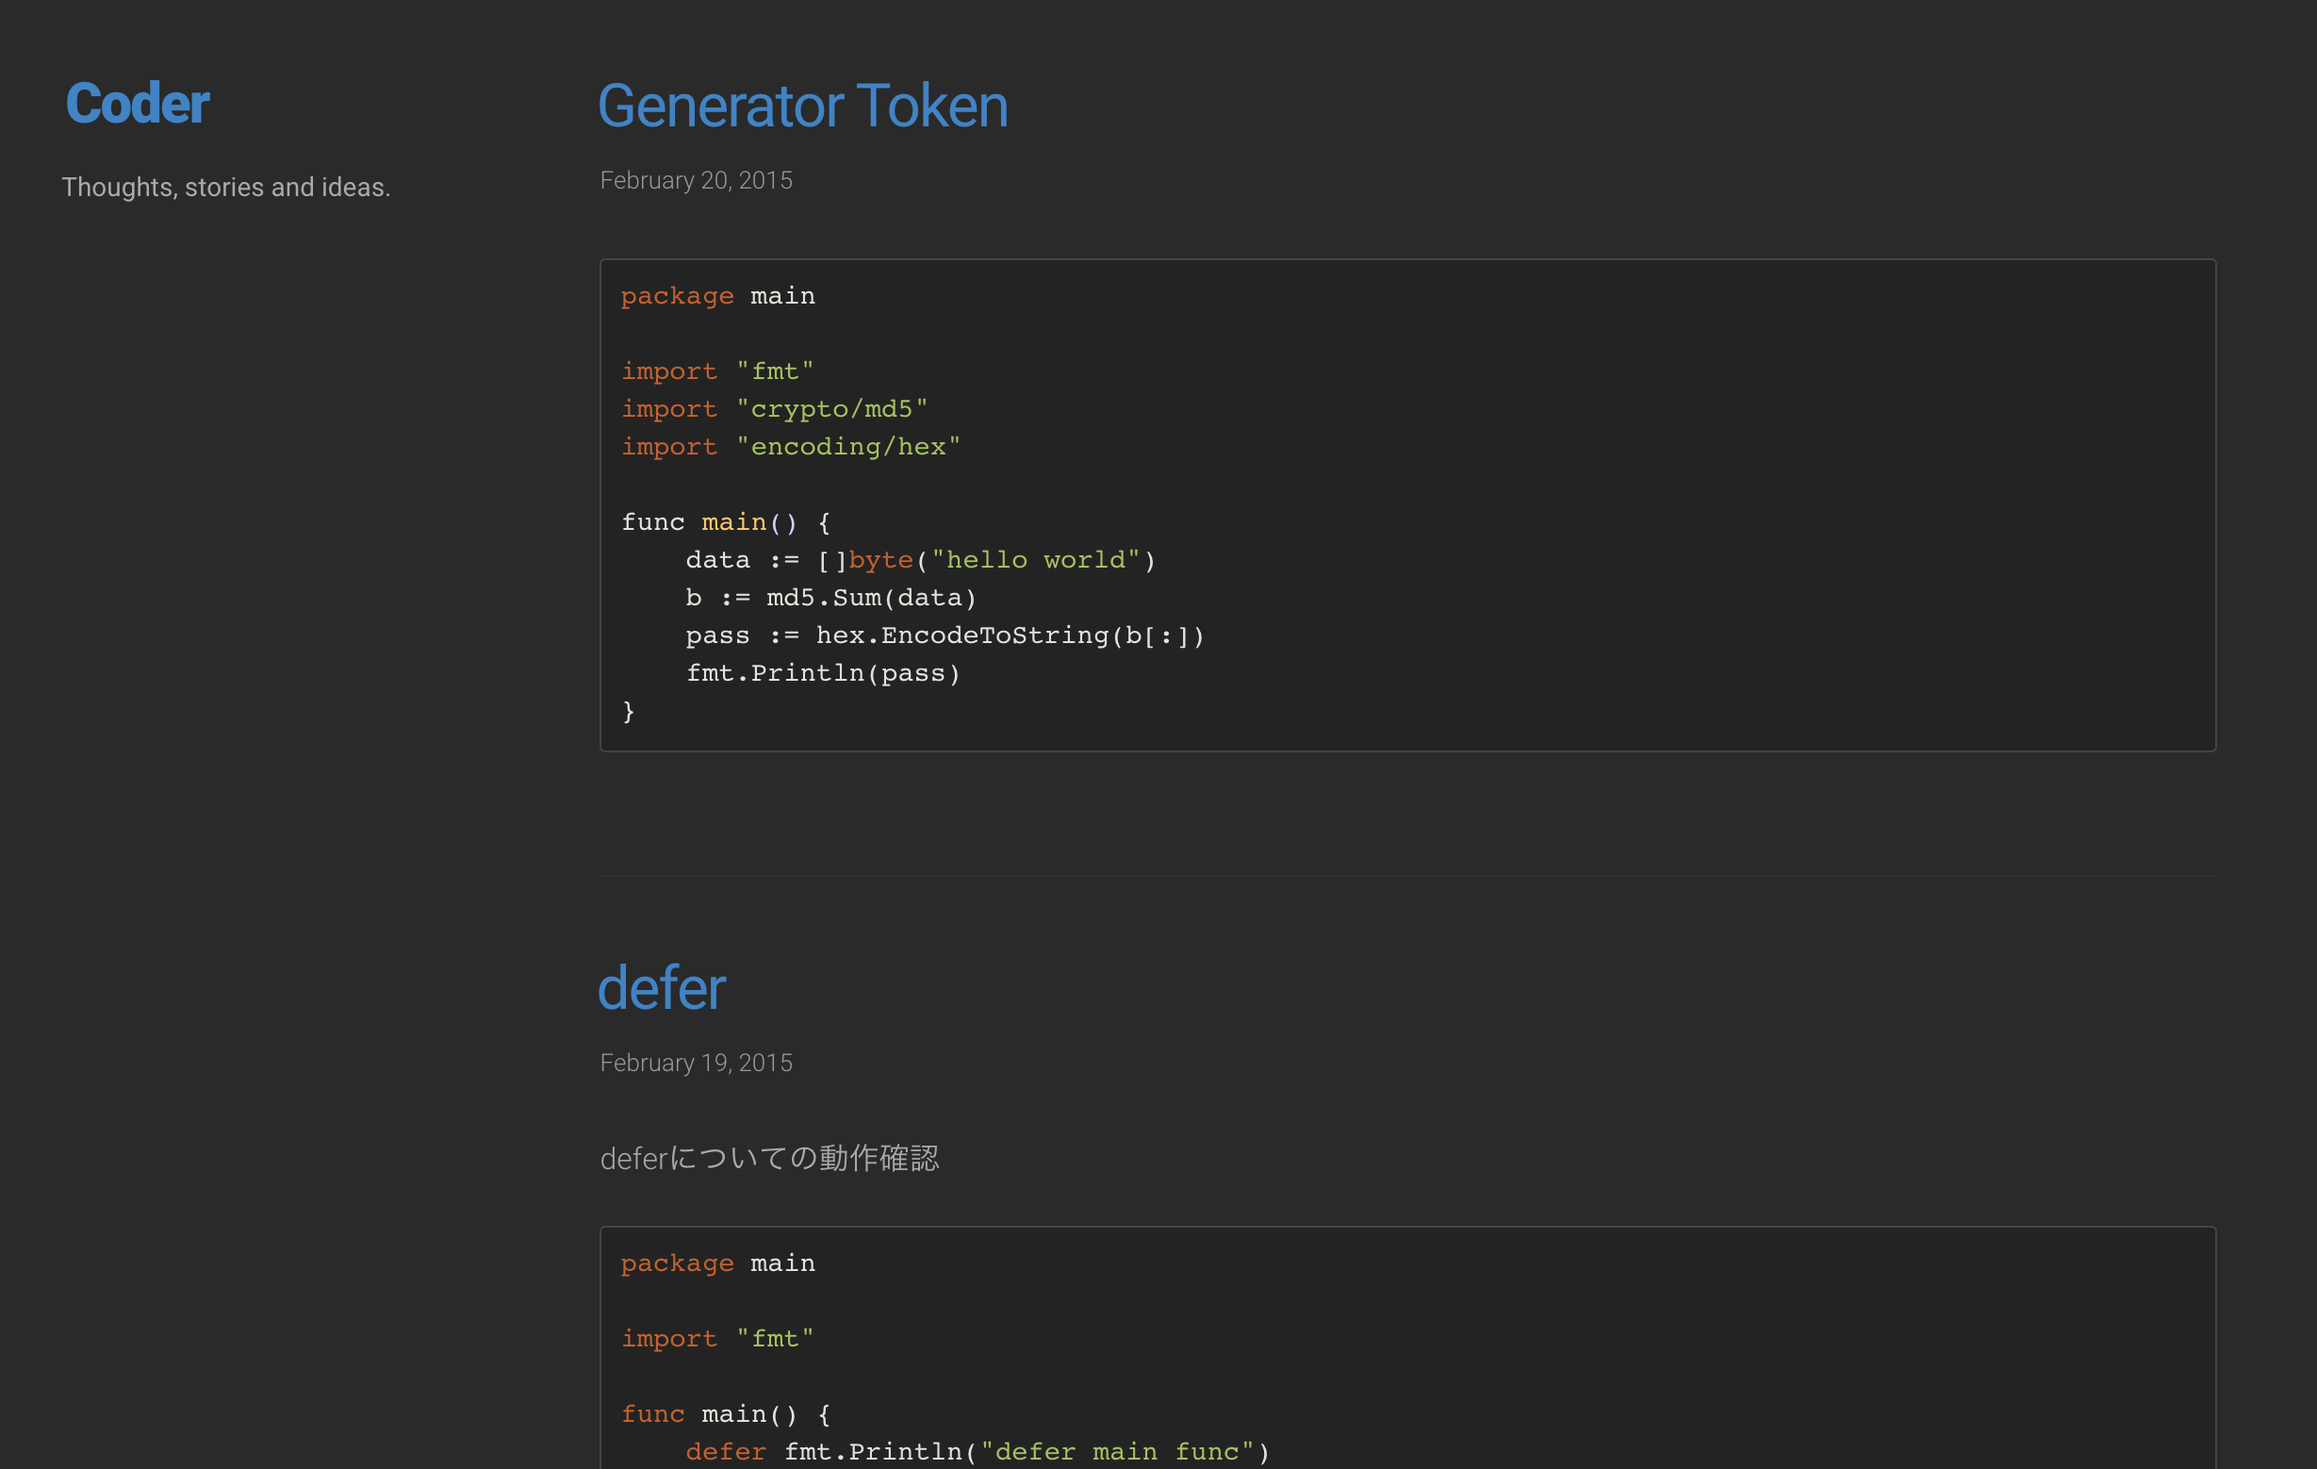
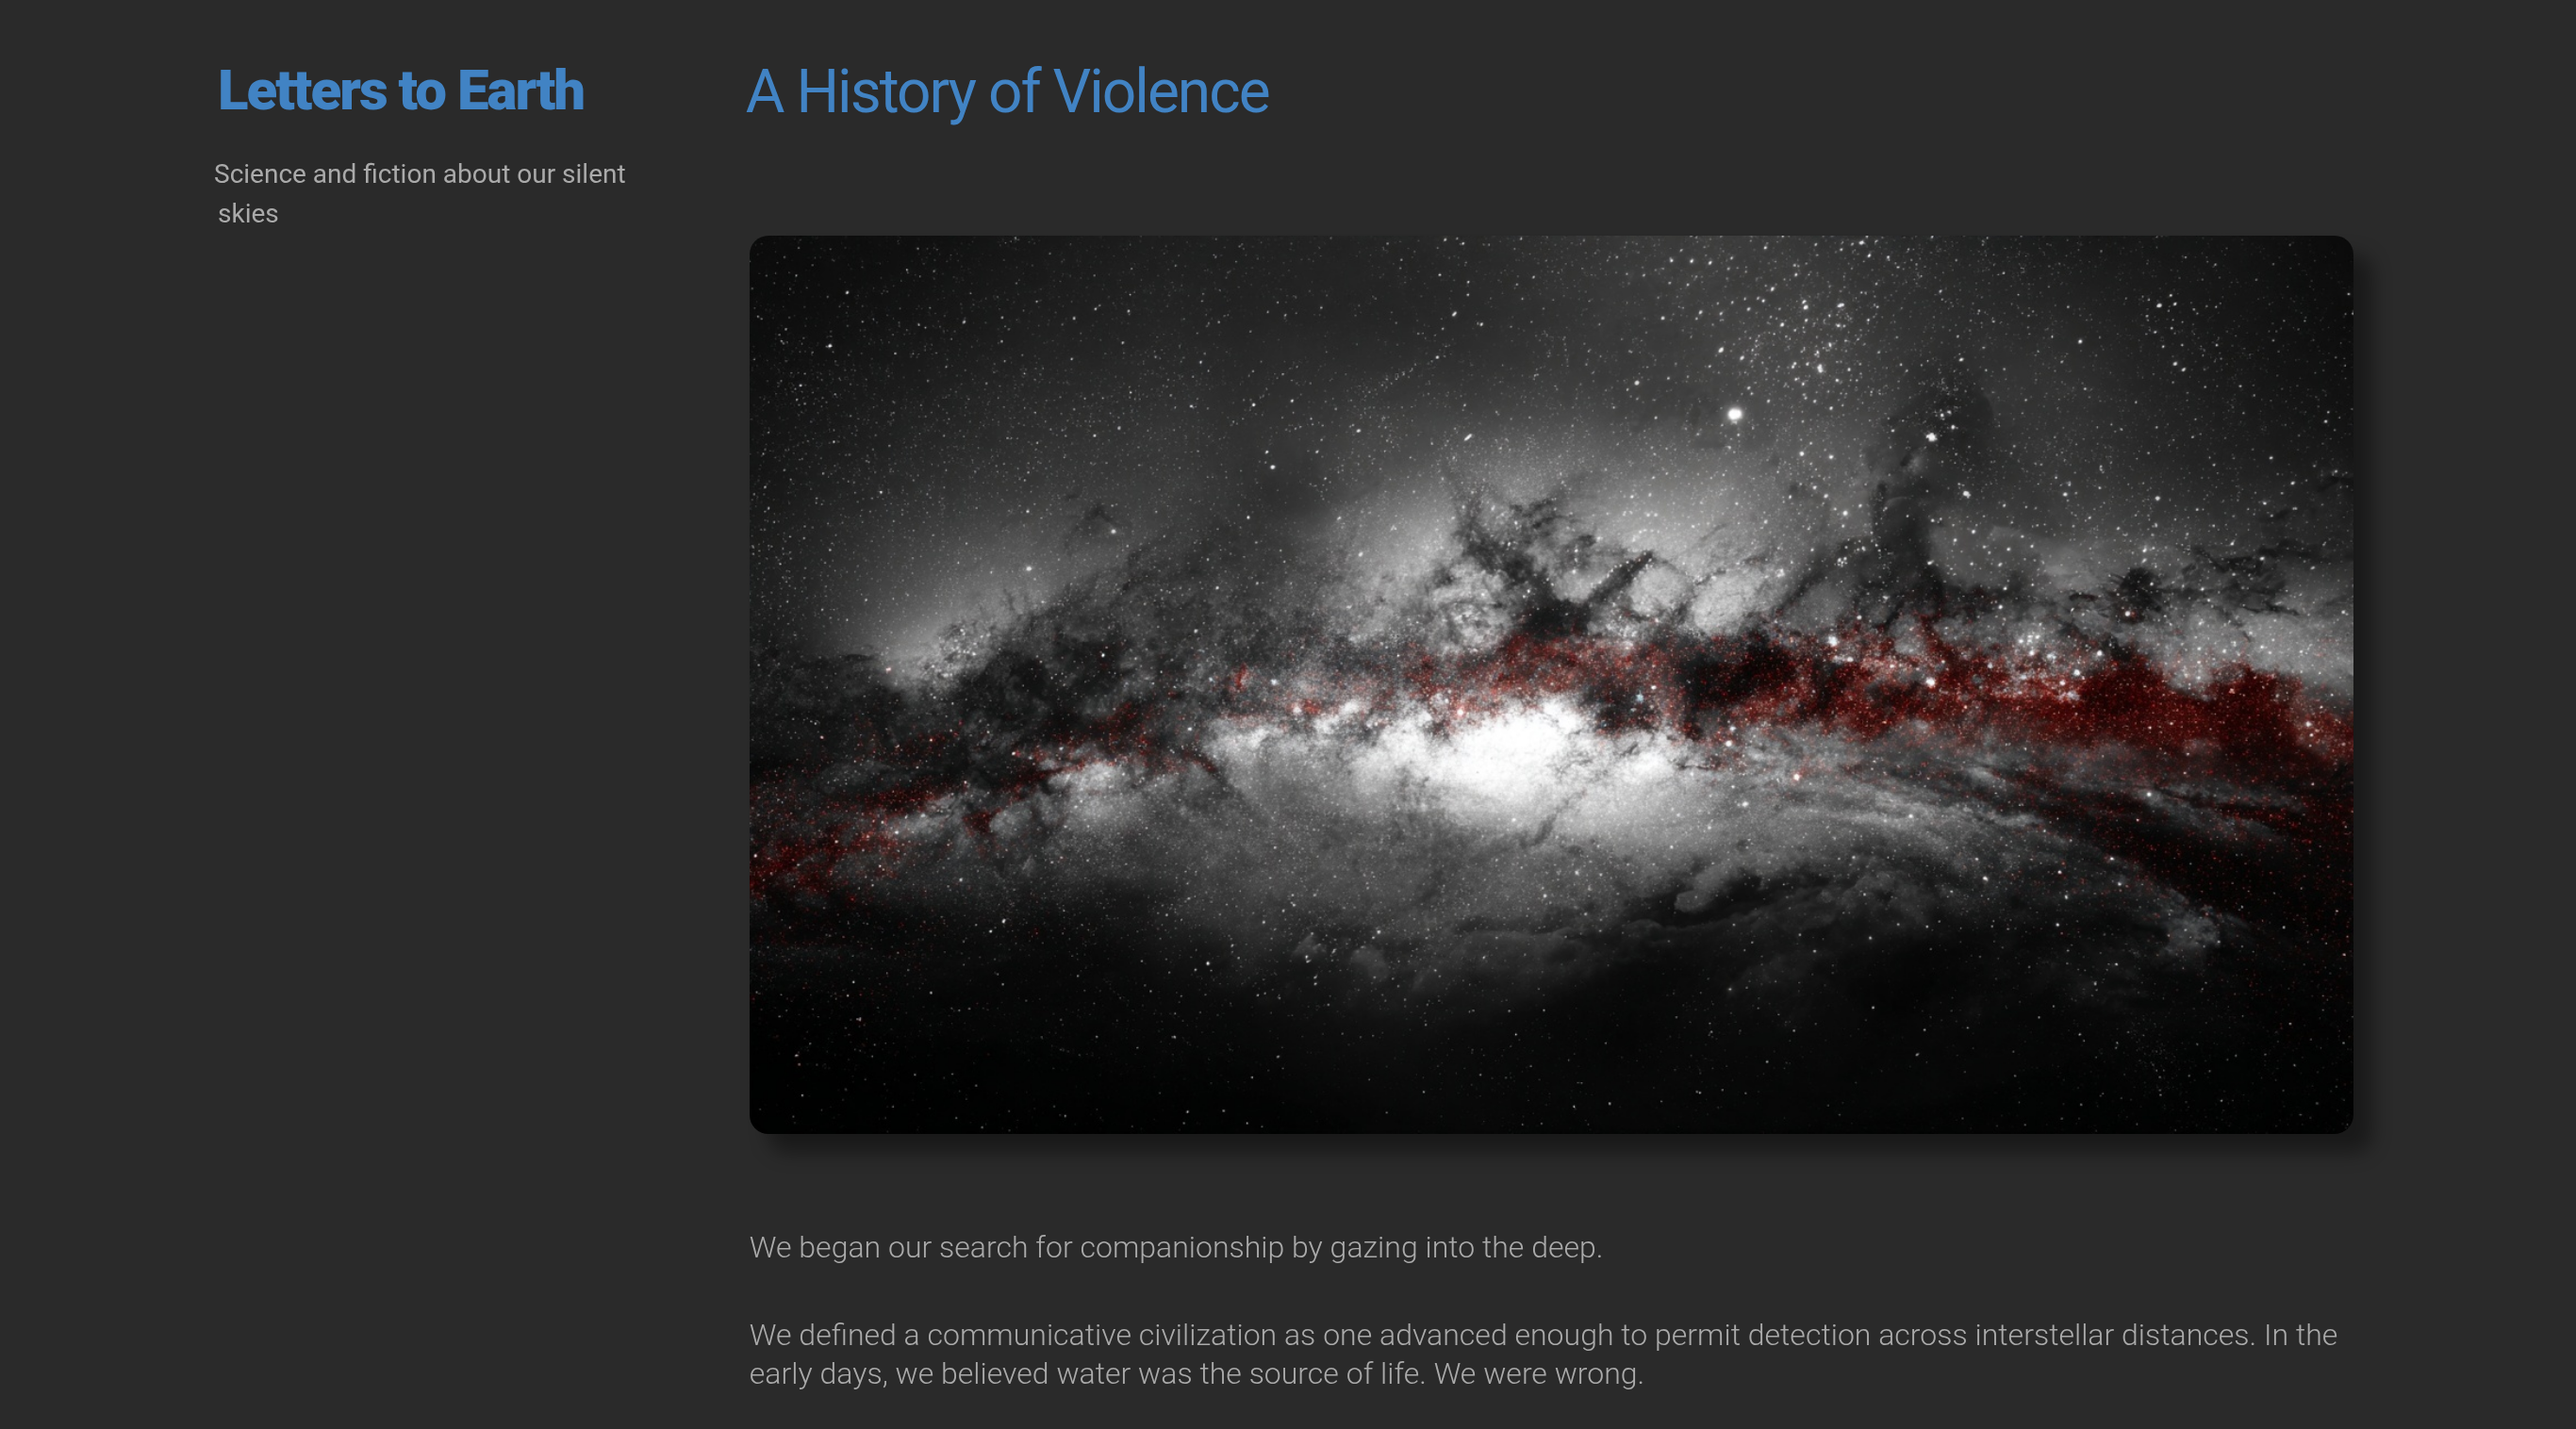
Checkin modified Code dark theme

diff --git a/ghost/kubernetes/themes/coder_dark/assets/css/screen.css b/ghost/kubernetes/themes/coder_dark/assets/css/screen.css
@@ -830,3 +830,38 @@ body .gist .pl-s1, body .gist .pl-pds {
   color: #76A22F; 
 }
 
+/* ==========================================================================
+   Ghost Content Card Styles (Required)
+   ========================================================================== */
+
+.kg-width-wide {
+    position: relative;
+    width: 85vw;
+    min-width: 100%;
+    margin: auto calc(50% - 50vw);
+    transform: translateX(calc(50vw - 50%));
+}
+
+.kg-width-full {
+    position: relative;
+    width: 100vw;
+    left: 50%;
+    right: 50%;
+    margin-left: -50vw;
+    margin-right: -50vw;
+}
+
+/* Responsive adjustments for content cards */
+@media (max-width: 800px) {
+    .kg-width-wide,
+    .kg-width-full {
+        width: 100%;
+        margin: 0;
+        transform: none;
+        left: auto;
+        right: auto;
+    }
+}
+
+
+

diff --git a/ghost/kubernetes/themes/coder_dark/README.md b/ghost/kubernetes/themes/coder_dark/README.md
@@ -1,12 +1,17 @@
-Coder
+Coder: Dark
 =======
 
-A GitHub homage theme for the [Ghost Blogging platform](http://ghost.org "Ghost Blogging Platform") - forked from Casper, the default Ghost theme.
-
-Visit Ghost at: [www.ghost.org](http://www.ghost.org "Ghost")
+A GitHub homage theme for the [Ghost Blogging platform](http://ghost.org "Ghost Blogging Platform").
 
 ![Coder Screenshot](coder.png?raw=true)
 
-
 Demo
-http://coderd.herokuapp.com/
+https://silentsky.notwelcome.in
+
+## LICENSE
+
+MIT license. 
+
+## Acknowledgement
+Thank you @mbejda for the awesomeness in the origin [Coder Ghost Theme](https://github.com/mbejda/CoderGhostTheme). 
+
